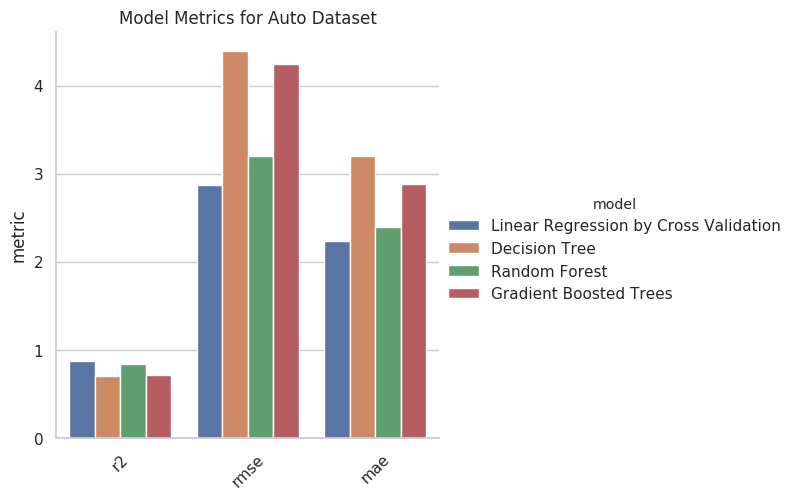
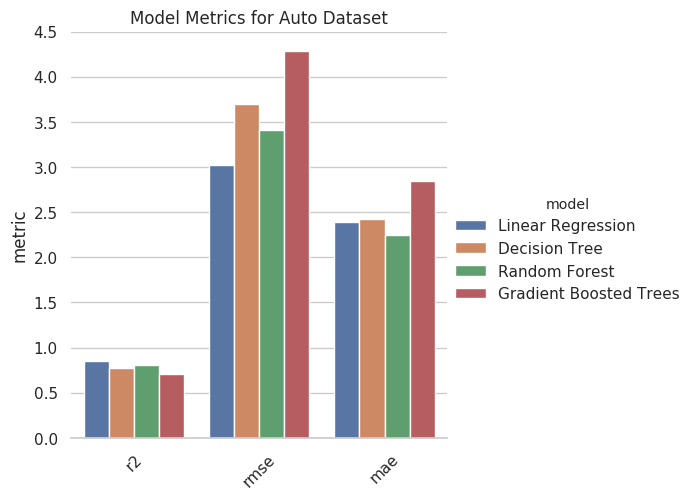
regenerate log/figure outputs

diff --git a/spark_pkg/util/mllib.py b/spark_pkg/util/mllib.py
@@ -157,7 +157,7 @@ def run_classification_models(train,test,metric_file_path,classes):
     metric_names = ['accuracy','weightedRecall','weightedPrecision']
     f = open(metric_file_path,'w')
     f.write('model,'+','.join(metric_names)+'\n')
-    name = 'Logisitic Regression'
+    name = 'Logistic Regression'
     model = LogisticRegression()
     param_grid = ParamGridBuilder()\
         .addGrid(model.regParam,[0,.25,.5]) \

diff --git a/explore_model_metrics.py b/explore_model_metrics.py
@@ -9,7 +9,7 @@ def multiple_bar_plot(df,dataset):
     df = pd.melt(df,id_vars='model',var_name='metric')
     plt = sns.catplot(x='metric',y='value',hue='model',data=df,kind='bar')
     plt.set(title='Model Metrics for %s Dataset'%dataset,ylabel='metric',xlabel='')
-    #plt.despine()
+    plt.despine(left=True)
     plt.set_xticklabels(rotation=45)
     plt.savefig('out/bar_chart_metrics/%s.png'%dataset.lower())
 
